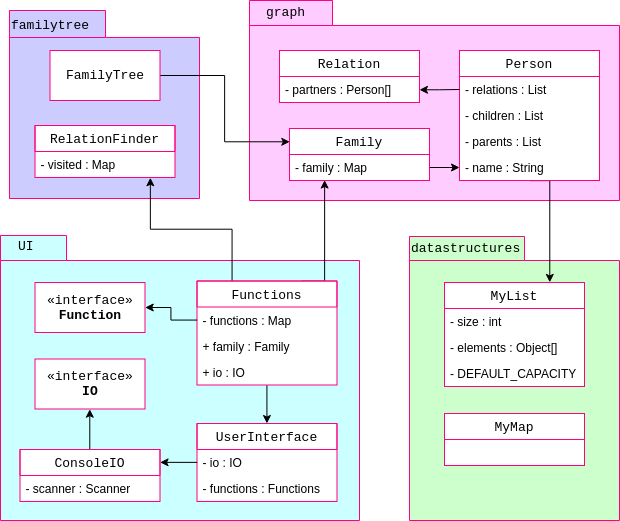
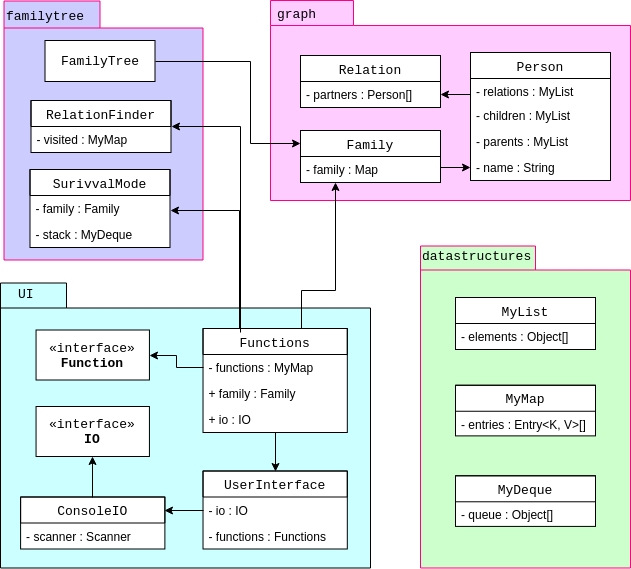
mymap ja mydeque otettu käyttöön

diff --git a/src/main/java/datastructures/MyMap.java b/src/main/java/datastructures/MyMap.java
@@ -96,6 +96,16 @@ public class MyMap<K, V> extends AbstractMap<K,V> implements Map<K, V> {
     public V put(Object key, Object value) {
         int hash = hash(key);
         int i = indexFor(hash, entries.length);
+        for (Entry<K,V> e = entries[i]; e != null; e = e.next) {
+            Object k;
+            if (e.hash == hash && ((k = e.key) == key || key.equals(k))) {
+                V oldValue = e.value;
+                e.value = (V) value;
+                
+                return oldValue;
+            }
+        }
+
         Entry<K, V> e = entries[i];
         entries[i] = new Entry<>((K) key, (V) value, e, hash);
         if (++size > threshold) {
@@ -181,39 +191,12 @@ public class MyMap<K, V> extends AbstractMap<K,V> implements Map<K, V> {
     final class MyKeySet<K> extends AbstractSet<K> {
         public final int size()                 { return size; }
         public final Iterator<K> iterator()     { return new MyKeyIterator(); }
-
-        public final void forEach(Consumer<? super K> action) {
-            Entry<K, V>[] tab;
-            if (action == null)
-                throw new NullPointerException();
-            if (size > 0 && (tab = (Entry<K, V>[]) entries) != null) {
-
-                for (int i = 0; i < tab.length; ++i) {
-                    for (Entry<K,V> e = tab[i]; e != null; e = e.next)
-                        action.accept(e.key);
-                }
-              
-            }
-        }
     }
 
     final class MyValues extends AbstractCollection<V> {
         public final int size()                 { return size; }
         public final Iterator<V> iterator()     { return new MyValueIterator(); }
-        public final boolean contains(Object o) { return containsValue(o); }
-
-        public final void forEach(Consumer<? super V> action) {
-            Entry<K,V>[] tab;
-            if (action == null)
-                throw new NullPointerException();
-            if (size > 0 && (tab = entries) != null) {
-                for (int i = 0; i < tab.length; ++i) {
-                    for (Entry<K,V> e = tab[i]; e != null; e = e.next)
-                        action.accept(e.value);
-                }
-            }
-        }
-
+        //public final boolean contains(Object o) { return containsValue(o); }
     }
 
     private final class MyKeyIterator<K> extends MyHashIterator implements Iterator<K> {
@@ -287,27 +270,12 @@ public class MyMap<K, V> extends AbstractMap<K,V> implements Map<K, V> {
 
         @Override
         public V setValue(V value) {
-            V oldValue = this.value;
-            this.value = (V) value;
-            return oldValue;
+            throw new UnsupportedOperationException("Not supported yet.");
         }
 
         @Override
         public boolean equals(Object obj) {
-            if (obj == null) {
-                return false;
-            }
-            if (getClass() != obj.getClass()) {
-                return false;
-            }
-            final Entry<?, ?> other = (Entry<?, ?>) obj;
-            if (!Objects.equals(this.key, other.key)) {
-                return false;
-            }
-            if (!Objects.equals(this.value, other.value)) {
-                return false;
-            }
-            return true;
+            throw new UnsupportedOperationException("Not supported yet.");
         }
 
         public final int hashCode() {

diff --git a/src/main/java/datastructures/MyList.java b/src/main/java/datastructures/MyList.java
@@ -74,11 +74,6 @@ public class MyList<E> implements List<E> {
         return new MyIterator();
     }
 
-    @Override
-    public ListIterator<E> listIterator() {
-        return new MyListIterator();
-    }
-
     private class MyIterator<E> implements Iterator<E> {
         int currentIndex;
 
@@ -97,57 +92,9 @@ public class MyList<E> implements List<E> {
 
     }
 
-    private class MyListIterator<E> extends MyIterator<E> implements ListIterator<E> {
-
-        MyListIterator() {
-            super();
-            currentIndex = 0;
-        }
-
-        @Override
-        public void add(E e) {
-        }
-
-        @Override
-        public boolean hasNext() {
-            return false;
-        }
-
-        @Override
-        public boolean hasPrevious() {
-            return currentIndex != 0;
-        }
-
-        @Override
-        public E next() {
-            return super.next();
-        }
-
-        @Override
-        public int nextIndex() {
-            return 0;
-        }
-
-        @Override
-        public E previous() {
-            return null;
-        }
-
-        @Override
-        public int previousIndex() {
-            return currentIndex - 1;
-        }
-
-        @Override
-        public void remove() {
-
-        }
-
-        @Override
-        public void set(E e) {
-
-        }
-
+    @Override
+    public ListIterator<E> listIterator() {
+        throw new UnsupportedOperationException("Not supported yet.");
     }
 
     @Override

diff --git a/src/main/java/familytree/SurvivalMode.java b/src/main/java/familytree/SurvivalMode.java
@@ -2,7 +2,7 @@ package familytree;
 
 import java.util.*;
 import graph.*;
-import datastructures.MyList;
+import datastructures.*;
 
 /**
  * Toteuttaa "survival moden" eli pisimmän polut etsinnän verkossa.
@@ -16,7 +16,7 @@ public class SurvivalMode {
 
     public SurvivalMode(Family family) {
         this.family = family;
-        this.stack = new ArrayDeque<>();
+        this.stack = new MyDeque<>();
         this.longest = 0;
     }
 
@@ -105,7 +105,7 @@ public class SurvivalMode {
      * Initalisoi etäisyydet sisältävän mapin.
      */
     private Map<Person, Integer> initializedistMap() {
-        Map<Person, Integer> dist = new HashMap();
+        Map<Person, Integer> dist = new MyMap();
         for (Person person : family.getFamily()) {
             dist.put(person, Integer.MIN_VALUE);
         }

diff --git a/src/test/java/MyDequeTest.java b/src/test/java/MyDequeTest.java
@@ -13,7 +13,16 @@ public class MyDequeTest {
         this.testDeque = new MyDeque();
     }
 
-    //tests for isEmpty
+    @Test
+    public void isEmptyReturnsTrue(){
+      assertTrue(testDeque.isEmpty());
+    }
+
+    @Test
+    public void isEmptyRetursFalse(){
+      testDeque.push(new Person("test"));
+      assertFalse(testDeque.isEmpty());
+    }
 
     @Test
     public void returnsCorrectSize(){
@@ -46,6 +55,9 @@ public class MyDequeTest {
 
     @Test
     public void queueIsResized(){
-
+      for (int i = 0; i <= 16; i++) {
+        testDeque.push(new Person("test"));
+      }
+      assertTrue(testDeque.size() > 16);
     }
   }

diff --git a/src/main/java/familytree/RelationFinder.java b/src/main/java/familytree/RelationFinder.java
@@ -2,6 +2,7 @@ package familytree;
 
 import java.util.*;
 import graph.*;
+import datastructures.MyDeque;
 
 /**
  * Sisältää toiminnallisuuden sukulaisuuksien määrittämiseen.
@@ -33,7 +34,7 @@ public class RelationFinder {
      */
     public boolean dfs(Person start, Person end) {
         String endName = end.getName();
-        Deque<Person> queue = new ArrayDeque<>();
+        Deque<Person> queue = new MyDeque<>();
         Person processed = start;
         queue.add(start);
 

diff --git a/src/main/java/ui/Functions.java b/src/main/java/ui/Functions.java
@@ -3,7 +3,7 @@ package ui;
 import java.util.*;
 import graph.*;
 import familytree.*;
-//import datastructures.MyMap;
+import datastructures.MyMap;
 
 public class Functions {
 
@@ -12,7 +12,7 @@ public class Functions {
     private IO io;
 
     public Functions(IO io, Family family) {
-        this.functions = new HashMap();
+        this.functions = new MyMap();
         populateFunctions();
         this.io = io;
         this.family = family;

diff --git a/src/main/java/graph/Family.java b/src/main/java/graph/Family.java
@@ -85,7 +85,7 @@ public class Family {
      * 
      */
     public Map<String, Boolean> initializeVisitedMap() {
-        Map<String, Boolean> visited = new HashMap();
+        Map<String, Boolean> visited = new MyMap();
         for (String name : getNames()) {
             visited.put(name, false);
         }

diff --git a/src/main/java/datastructures/MyDeque.java b/src/main/java/datastructures/MyDeque.java
@@ -76,12 +76,10 @@ public class MyDeque<E> implements Deque<E> {
 
   @Override
   public void addFirst(E e) {
-
   }
 
   @Override
   public void clear() {
-
   }
 
   @Override
